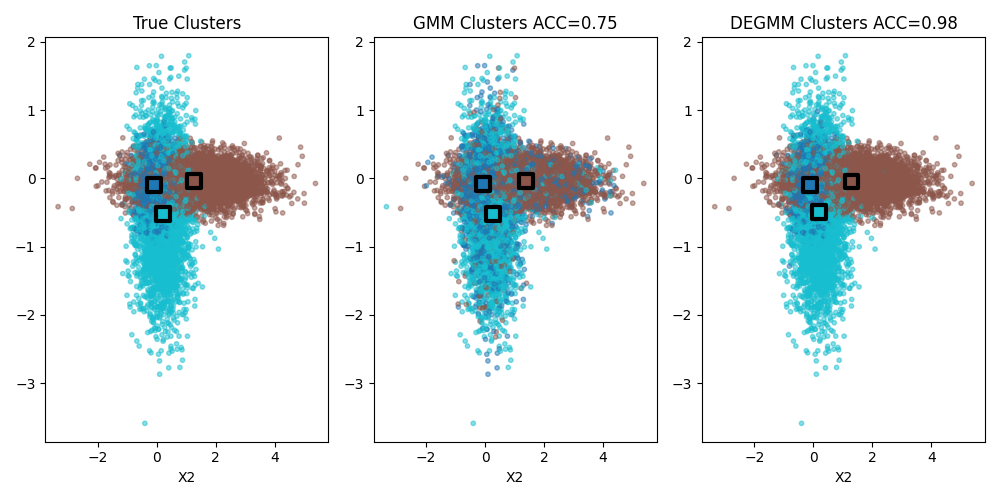
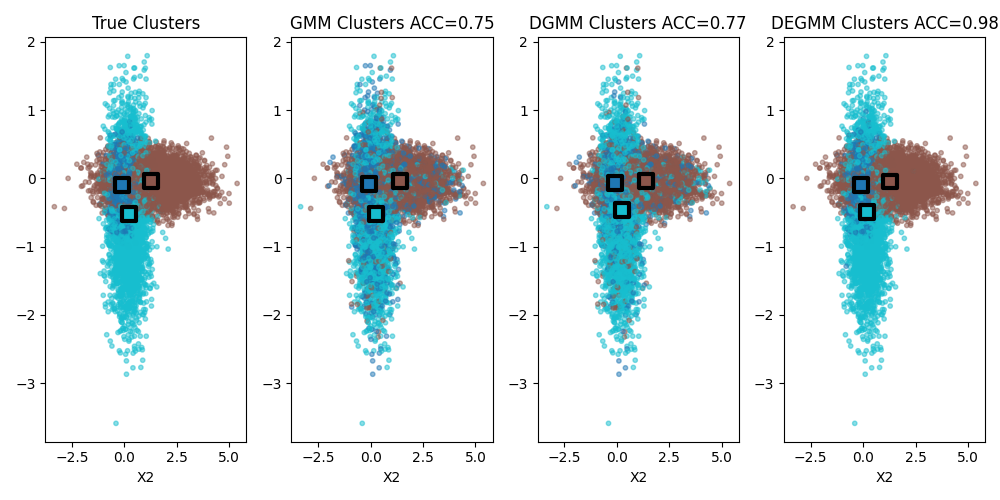
add dgmm

diff --git a/src/models/dgmm.py b/src/models/dgmm.py
@@ -7,7 +7,7 @@ import optax
 from jax import grad, jit, vmap
 from jax.random import PRNGKey, split, normal
 
-from src.utils.functions import log_likelihood_egmm
+from src.utils.functions import log_likelihood_gmm
 from src.models.mlp import MLP
 import logging
 from src.utils.functions import gaussian_density
@@ -16,11 +16,10 @@ from src.utils.functions import gaussian_density
 logging.basicConfig(level=logging.INFO)
 logger = logging.getLogger(__name__)
 
-class DEGMM:
-    def __init__(self, D,hidden_dim, M, K, lr=0.001, logger=logger,lambda1=0.1,lambda2=0.005):
+class DGMM:
+    def __init__(self, D,hidden_dim, K, lr=0.001, logger=logger,lambda1=0.1,lambda2=0.005):
         self.D = D
         self.hidden_dim = hidden_dim
-        self.M = M
         self.K = K
 
 
@@ -30,14 +29,13 @@ class DEGMM:
         self.loss_value = jnp.inf
 
         rng = PRNGKey(0)
-        self.mlp = MLP(input_dim=D*M, hidden_dim=hidden_dim, K=K)
-        self.params = self.mlp.init(rng, jnp.ones((D*M,)))
+        self.mlp = MLP(input_dim=D, hidden_dim=hidden_dim, K=K)
+        self.params = self.mlp.init(rng, jnp.ones((D,)))
         self.state = train_state.TrainState.create(
             apply_fn=self.mlp.apply,
             params=self.params,
             tx=optax.adam(self.lr)
         )
-
         self.parameters =[{
             "epoch": self.epoch,
             'pi': None,
@@ -61,7 +59,7 @@ class DEGMM:
 
     def loss_function(self, X,pi, mu, Sigma):
         # Calculate the log-likelihood
-        log_lik = self.lambda1 * log_likelihood_egmm(X, pi, mu, Sigma)
+        log_lik = self.lambda1 * log_likelihood_gmm(X, pi, mu, Sigma)
         # Penalisation of singular matrices
         penalisation = self.lambda2 * jnp.sum(vmap(lambda k: jnp.sum(jnp.linalg.diagonal(Sigma[k,:,:])))(jnp.arange(self.K)))
 
@@ -77,18 +75,17 @@ class DEGMM:
         @jit
         def train_step(state, X):
             def loss_fn(params):
-                output = self.mlp.apply(params, X.reshape(n, self.D * self.M))
+                output = self.mlp.apply(params, X.reshape(n, self.D))
                 gamma = output
                 
                 N_k = jnp.sum(gamma, axis=0)
                 pi = N_k / n
-                mu = vmap(lambda k: jnp.sum(vmap(lambda d: gamma[:,k]*(jnp.sum(X, axis=1)[:,d]))(jnp.arange(self.D)).T,axis=0) / (self.M * N_k[k]))(jnp.arange(self.K))
-
-
+                pi = N_k / n
+                mu = jnp.dot(gamma.T, X) / N_k[:, jnp.newaxis]
                 Sigma = jnp.zeros((self.K, self.D, self.D))
                 for k in range(self.K):
-                    weighted_X = jnp.sum(vmap(lambda i:gamma[i,k]*(X[i, :, :] - mu[k,:]).T@(X[i, :, :] - mu[k,:]))(jnp.arange(n)),axis=0)
-                    Sigma = Sigma.at[k].set(weighted_X/ (self.M * N_k[k]) + 1e-6 * jnp.eye(self.D))
+                    weighted_X = jnp.sqrt(gamma[:, k][:, jnp.newaxis]) * (X - mu[k])
+                    Sigma = Sigma.at[k].set(jnp.dot(weighted_X.T, weighted_X) / N_k[k])
                 loss_value = self.loss_function(X, pi, mu, Sigma)
                 return loss_value, (pi, mu, Sigma, gamma)
 
@@ -129,4 +126,3 @@ class DEGMM:
             return output_jax
         else:
             return pi_pred, mu_pred, Sigma_pred
-    

diff --git a/main.py b/main.py
@@ -3,6 +3,7 @@ import jax.random as random
 from src.data.generator import DataGenerator
 from src.models.gmm import GMM
 from src.models.degmm import DEGMM
+from src.models.dgmm import DGMM
 from src.utils.plots import plot_cluster, animate_inference
 import argparse
 import matplotlib.pyplot as plt
@@ -50,6 +51,17 @@ def main(args):
     timeend = time.time()
     print(f"Time taken to fit GMM: {timeend - timestart} seconds")
 
+
+    # Initialize the DGMM model
+    dgmm = DGMM(D, hidden_dim=32, K=K)
+
+    # Fit the DEGMM model
+    # resize X to (n, D*M)
+    timestart = time.time()
+    dgmm.fit(X_member,num_epochs=num_epochs)
+    timeend = time.time()
+    print(f"Time taken to fit GMM: {timeend - timestart} seconds")
+
     # Initialize the DEGMM model
     degmm = DEGMM(D, hidden_dim=32, M=M, K=K)
 
@@ -62,6 +74,7 @@ def main(args):
 
 
     params_gmm = gmm.model_parameters[-1]
+    params_dgmm = dgmm.model_parameters[-1]
     params_degmm = degmm.model_parameters[-1]
 
 
@@ -80,6 +93,21 @@ def main(args):
     accgmm = accuracy_score(Z, closest_cluster_gmm)
 
 
+    # Compute the confusion matrix
+    y_pred_dgmm = params_dgmm["clusters"]
+    confusion_matrix_dgmm = confusion_matrix(Z, y_pred_dgmm)
+
+    # reorder y_pred_dgmm following the closest cluster to the true cluster
+    reorderlabels = confusion_matrix_dgmm.argmax(axis=0)
+    closest_cluster_dgmm = y_pred_dgmm.copy()
+    for k in range(K):
+        closest_cluster_dgmm = closest_cluster_dgmm.at[y_pred_dgmm==k].set(reorderlabels[k])
+    params_dgmm["mu"] = params_dgmm["mu"][reorderlabels,:]
+    params_dgmm["Sigma"] = params_dgmm["Sigma"][reorderlabels,:,:]
+    params_dgmm["pi"] = params_dgmm["pi"][reorderlabels]
+    accdgmm = accuracy_score(Z, closest_cluster_dgmm)
+
+
     y_pred_degmm = params_degmm["clusters"]
     confusion_matrix_degmm = confusion_matrix(Z, y_pred_degmm)
 
@@ -95,7 +123,7 @@ def main(args):
 
 
     ################################## Plot the results ##################################
-    fig, ax = plt.subplots(1, 3, figsize=(10, 5))
+    fig, ax = plt.subplots(1, 4, figsize=(10, 5))
     palette = plt.cm.get_cmap('tab10', K)
     # Plot the true clusters
     plot_cluster(X, Z, true_params, palette, ax[0], "True")
@@ -109,11 +137,17 @@ def main(args):
     ax[1].set_xlabel(f'X1')
     ax[1].set_xlabel(f'X2')
 
-    # Plot the results of degmm
-    plot_cluster(X, closest_cluster_degmm, params_degmm, palette, ax[2], "DEGMM")
-    ax[2].set_title(f'DEGMM Clusters ACC={accdegmm:.2f}')
+    # Plot the results of dgmm
+    plot_cluster(X, closest_cluster_dgmm, params_dgmm, palette, ax[2], "DGMM")
+    ax[2].set_title(f'DGMM Clusters ACC={accdgmm:.2f}')
     ax[2].set_xlabel(f'X1')
     ax[2].set_xlabel(f'X2')
+
+    # Plot the results of degmm
+    plot_cluster(X, closest_cluster_degmm, params_degmm, palette, ax[3], "DEGMM")
+    ax[3].set_title(f'DEGMM Clusters ACC={accdegmm:.2f}')
+    ax[3].set_xlabel(f'X1')
+    ax[3].set_xlabel(f'X2')
 
     # plt.show()
     fig.tight_layout()
